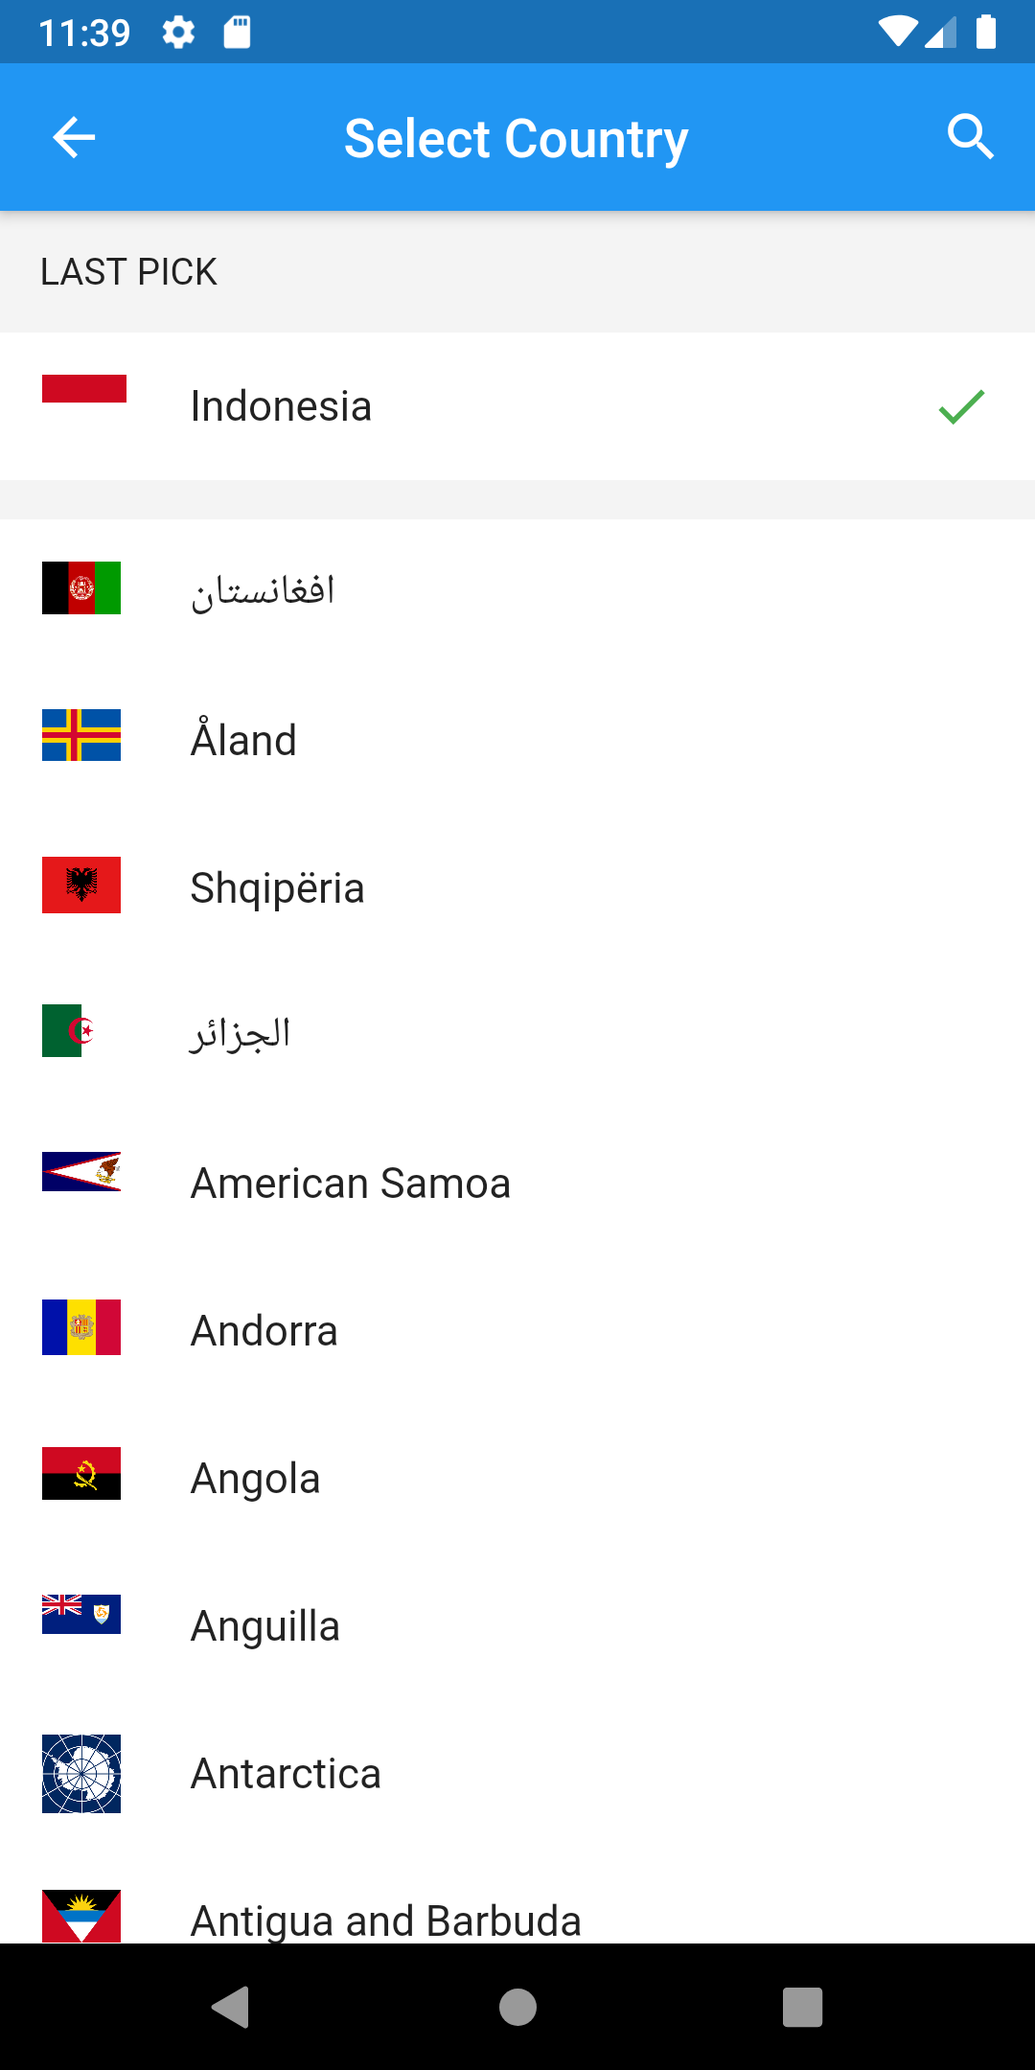
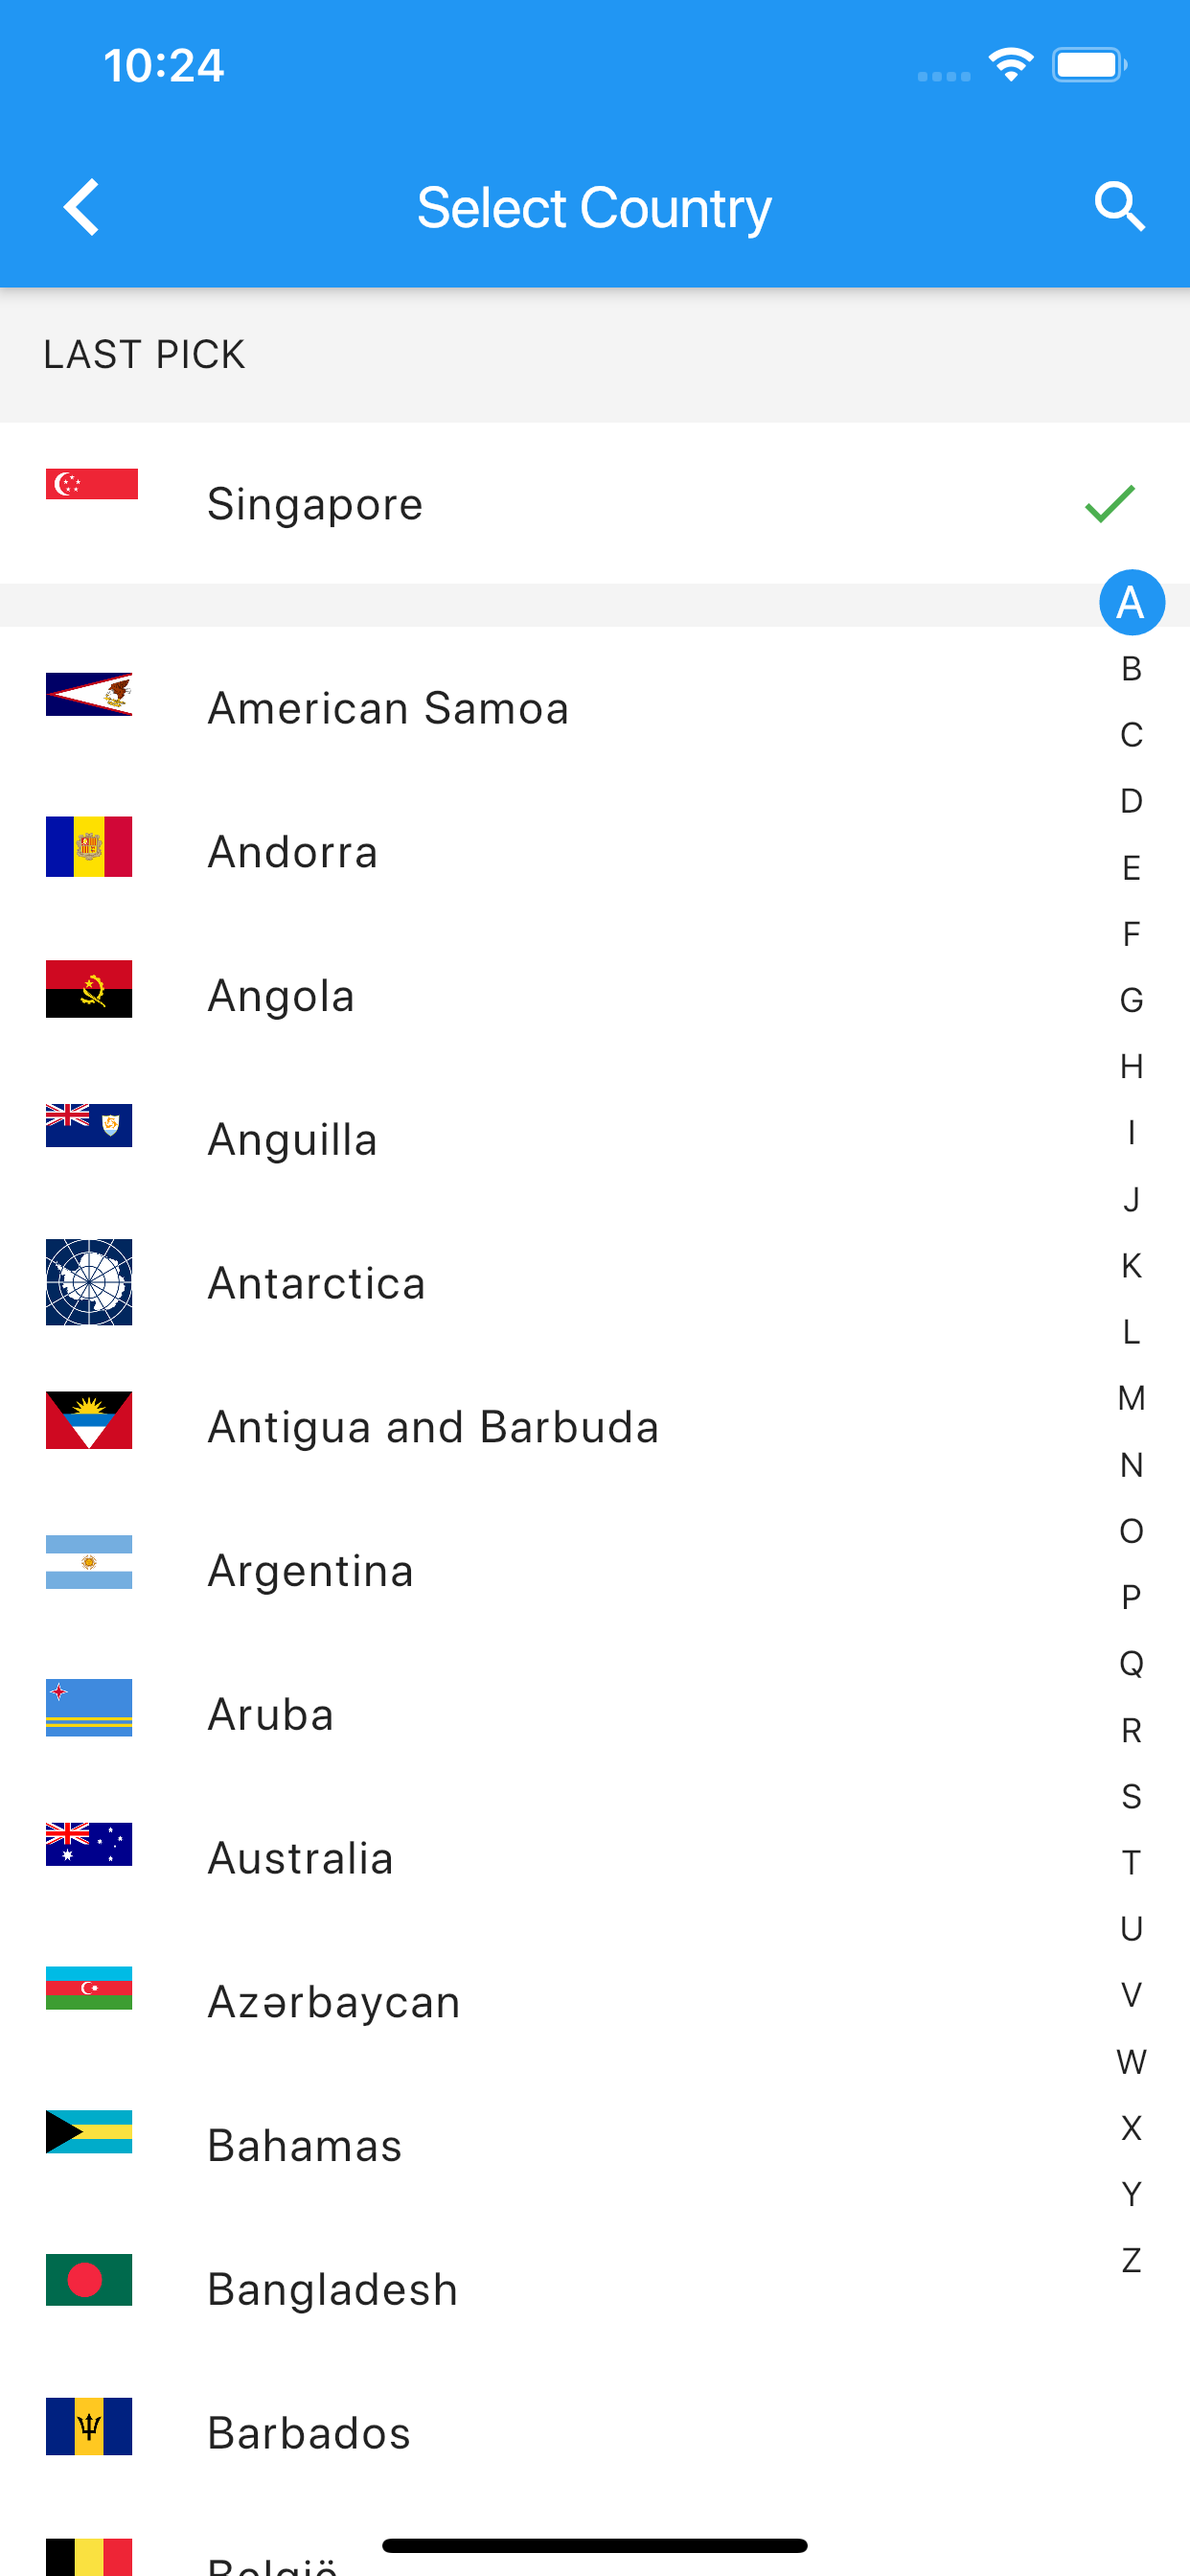
aphabet list

diff --git a/lib/selection_list.dart b/lib/selection_list.dart
@@ -18,12 +18,30 @@ class SelectionList extends StatefulWidget {
 class _SelectionListState extends State<SelectionList> {
   List<CountryCode> countries;
   final TextEditingController _controller = TextEditingController();
+  ScrollController _controllerScroll;
+  var diff = 0.0;
+
+  var posSelected = 0;
+  var height = 0.0;
+  var _sizeheightcontainer;
+  var _heightscroller;
+  var _text;
+  var _oldtext;
+  var _itemsizeheight = 50.0;
+  double _offsetContainer = 0.0;
+
+  bool isShow = true;
 
   Icon icon = Icon(Icons.search);
 
   @override
   void initState() {
     countries = widget.elements;
+    countries.sort((a, b) {
+      return a.name.toString().compareTo(b.name.toString());
+    });
+    _controllerScroll = ScrollController();
+    _controller.addListener(_scrollListener);
     super.initState();
   }
 
@@ -31,8 +49,38 @@ class _SelectionListState extends State<SelectionList> {
     Navigator.pop(context, initialSelection);
   }
 
+  List _alphabet = [
+    'A',
+    'B',
+    'C',
+    'D',
+    'E',
+    'F',
+    'G',
+    'H',
+    'I',
+    'J',
+    'K',
+    'L',
+    'M',
+    'N',
+    'O',
+    'P',
+    'Q',
+    'R',
+    'S',
+    'T',
+    'U',
+    'V',
+    'W',
+    'X',
+    'Y',
+    'Z'
+  ];
+
   @override
   Widget build(BuildContext context) {
+    height = MediaQuery.of(context).size.height;
     return Scaffold(
       appBar: AppBar(
         title: appBarTitle,
@@ -42,7 +90,9 @@ class _SelectionListState extends State<SelectionList> {
             icon: icon,
             onPressed: () {
               setState(() {
+                isShow = true;
                 if (this.icon.icon == Icons.search) {
+                  isShow = false;
                   this.icon = Icon(
                     Icons.close,
                     color: Theme.of(context).secondaryHeaderColor,
@@ -59,7 +109,6 @@ class _SelectionListState extends State<SelectionList> {
                         )),
                     onChanged: _filterElements,
                   );
-                  // _handleSearchStart();
                 } else {
                   _handleSearchEnd();
                 }
@@ -70,36 +119,67 @@ class _SelectionListState extends State<SelectionList> {
       ),
       body: Container(
         color: Color(0xfff4f4f4),
-        child: ListView(
-            children: [
-          Padding(
-            padding: const EdgeInsets.all(15.0),
-            child: Text('LAST PICK'),
-          ),
-          Container(
-            color: Colors.white,
-            child: ListTile(
-              leading: Image.asset(
-                widget.initialSelection.flagUri,
-                package: 'country_list_pick',
-                width: 32.0,
+        child: LayoutBuilder(builder: (context, contrainsts) {
+          diff = height - contrainsts.biggest.height;
+          _heightscroller = (contrainsts.biggest.height) / _alphabet.length;
+          _sizeheightcontainer = (contrainsts.biggest.height);
+          return Stack(
+            children: <Widget>[
+              ListView(
+                controller: _controllerScroll,
+                children: [
+                  Padding(
+                    padding: const EdgeInsets.all(15.0),
+                    child: Text('LAST PICK'),
+                  ),
+                  Container(
+                    color: Colors.white,
+                    child: ListTile(
+                      leading: Image.asset(
+                        widget.initialSelection.flagUri,
+                        package: 'country_list_pick',
+                        width: 32.0,
+                      ),
+                      title: Text(widget.initialSelection.name),
+                      trailing: Icon(Icons.check, color: Colors.green),
+                    ),
+                  ),
+                  SizedBox(height: 15),
+                ]..addAll(
+                    countries.map(
+                      (e) => getListCountry(e),
+                    ),
+                  ),
               ),
-              title: Text(widget.initialSelection.name),
-              trailing: Icon(Icons.check, color: Colors.green),
-            ),
-          ),
-          SizedBox(height: 15),
-        ]..addAll(
-                countries.map(
-                  (e) => getListCountry(e),
+              if (isShow == true)
+                Align(
+                  alignment: Alignment.centerRight,
+                  child: GestureDetector(
+                    onVerticalDragUpdate: _onVerticalDragUpdate,
+                    onVerticalDragStart: _onVerticalDragStart,
+                    child: Container(
+                      height: 20.0 * 30,
+                      color: Colors.transparent,
+                      child: Column(
+                        mainAxisAlignment: MainAxisAlignment.center,
+                        children: []..addAll(
+                            List.generate(_alphabet.length,
+                                (index) => _getAlphabetItem(index)),
+                          ),
+                      ),
+                    ),
+                  ),
                 ),
-              )),
+            ],
+          );
+        }),
       ),
     );
   }
 
   Widget getListCountry(CountryCode e) {
     return Container(
+      height: 50,
       color: Colors.white,
       child: ListTile(
         leading: Image.asset(
@@ -116,6 +196,49 @@ class _SelectionListState extends State<SelectionList> {
   }
 
   Widget appBarTitle = Text("Select Country");
+
+  _getAlphabetItem(int index) {
+    return Expanded(
+      child: InkWell(
+        onTap: () {
+          setState(() {
+            posSelected = index;
+            _text = _alphabet[posSelected];
+            if (_text != _oldtext) {
+              for (var i = 0; i < countries.length; i++) {
+                if (_text.toString().compareTo(
+                        countries[i].name.toString().toUpperCase()[0]) ==
+                    0) {
+                  _controllerScroll.jumpTo((i * _itemsizeheight) + 10);
+                  break;
+                }
+              }
+              _oldtext = _text;
+            }
+          });
+        },
+        child: Container(
+          width: 40,
+          height: 20,
+          alignment: Alignment.center,
+          decoration: BoxDecoration(
+            color: index == posSelected ? Colors.blue : Colors.transparent,
+            shape: BoxShape.circle,
+          ),
+          child: Text(
+            _alphabet[index],
+            textAlign: TextAlign.center,
+            style: (index == posSelected)
+                ? TextStyle(
+                    fontSize: 16,
+                    fontWeight: FontWeight.bold,
+                    color: Colors.white)
+                : TextStyle(fontSize: 12, fontWeight: FontWeight.w400),
+          ),
+        ),
+      ),
+    );
+  }
 
   void _handleSearchEnd() {
     setState(() {
@@ -138,5 +261,42 @@ class _SelectionListState extends State<SelectionList> {
               e.name.toUpperCase().contains(s))
           .toList();
     });
+  }
+
+  void _onVerticalDragUpdate(DragUpdateDetails details) {
+    setState(() {
+      if ((_offsetContainer + details.delta.dy) >= 0 &&
+          (_offsetContainer + details.delta.dy) <=
+              (_sizeheightcontainer - _heightscroller)) {
+        _offsetContainer += details.delta.dy;
+        posSelected =
+            ((_offsetContainer / _heightscroller) % _alphabet.length).round();
+        _text = _alphabet[posSelected];
+        if (_text != _oldtext) {
+          for (var i = 0; i < countries.length; i++) {
+            if (_text
+                    .toString()
+                    .compareTo(countries[i].name.toString().toUpperCase()[0]) ==
+                0) {
+              _controllerScroll.jumpTo((i * _itemsizeheight) + 15);
+              break;
+            }
+          }
+          _oldtext = _text;
+        }
+      }
+    });
+  }
+
+  void _onVerticalDragStart(DragStartDetails details) {
+    _offsetContainer = details.globalPosition.dy - diff;
+  }
+
+  _scrollListener() {
+    if ((_controllerScroll.offset) >=
+        (_controllerScroll.position.maxScrollExtent)) {}
+    if (_controllerScroll.offset <=
+            _controllerScroll.position.minScrollExtent &&
+        !_controllerScroll.position.outOfRange) {}
   }
 }

diff --git a/CHANGELOG.md b/CHANGELOG.md
@@ -1,11 +1,19 @@
-## 0.0.1
+## 1.0.0+2
 
-- Initial publish package.
+- add alpabet to jump specific country
+
+## 1.0.0+1
+
+- add search list
 
 ## 1.0.0
 
 - Clean some unusefull code
 
-## 1.0.0+1
+## 0.0.1
 
-- add search list
+- Initial publish package.
+
+
+
+
